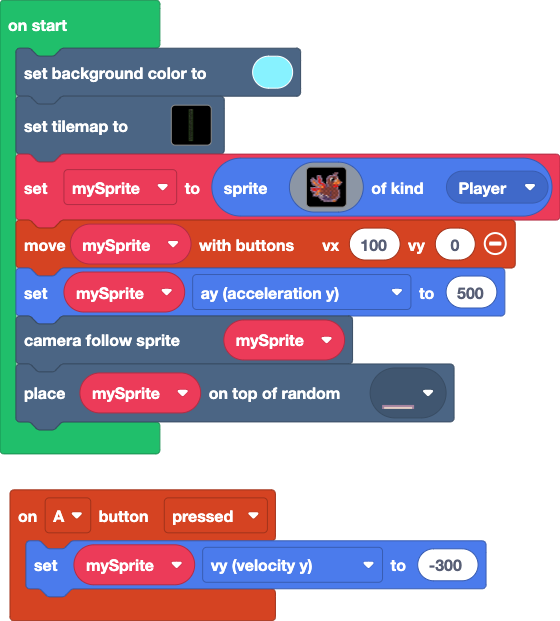
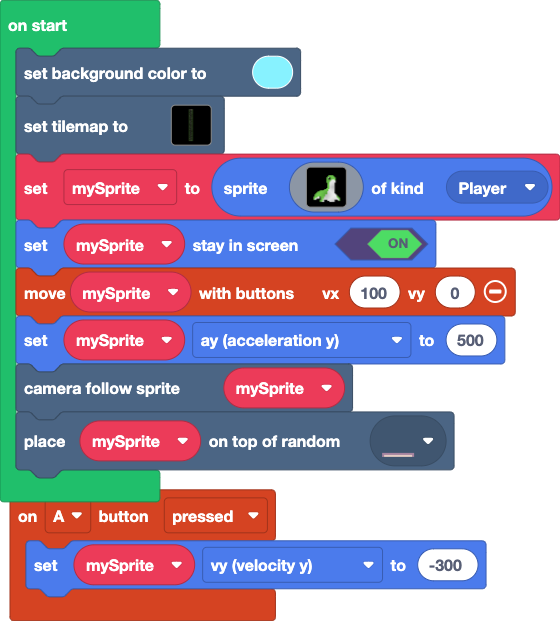
Update main.blocks, main.ts, images.g.jres, images.g.ts

Changed region(s): [[0.0, 0.2754, 0.9411, 0.8261]]

diff --git a/images.g.ts b/images.g.ts
@@ -3,29 +3,6 @@ namespace myImages {
 
     helpers._registerFactory("image", function(name: string) {
         switch(helpers.stringTrim(name)) {
-            case "image1":
-            case "turkey":return img`
-..............................
-..............................
-..............................
-.....bbb........beb...........
-.....b2b.......beb............
-.bb..b2bb...bbbbbb............
-bbbb.b22b..bbeeeeeb...........
-bb4bbb22b.bbed1feedf..........
-.b44bb22bbbee1ffed4c..........
-.bb44bb22bbeedfbdd44..........
-..bb44bbbbdeeeee44444.........
-....bb4dddbbeee44444..........
-bbbbbbbbdeeeeeee22............
-b222222eeeeeeeeeeeb...........
-bb222beeeeeebeeeeeb...........
-.bbbbbeeeeeebeeeeeb...........
-...bbcdceeeedeeeeeb...........
-..bb4cbdcdeebeeeeeb...........
-..bbbbcddccbdeeeeed...........
-.......cbdddddeee44...........
-`;
             case "image3":
             case "duck":return img`
 ..............................
@@ -59,38 +36,61 @@ bb222beeeeeebeeeeeb...........
 ..............................
 ..............................
 `;
+            case "image1":
+            case "turkey":return img`
+..............................
+..............................
+..............................
+.....bbb........beb...........
+.....b2b.......beb............
+.bb..b2bb...bbbbbb............
+bbbb.b22b..bbeeeeeb...........
+bb4bbb22b.bbed1feedf..........
+.b44bb22bbbee1ffed4c..........
+.bb44bb22bbeedfbdd44..........
+..bb44bbbbdeeeee44444.........
+....bb4dddbbeee44444..........
+bbbbbbbbdeeeeeee22............
+b222222eeeeeeeeeeeb...........
+bb222beeeeeebeeeeeb...........
+.bbbbbeeeeeebeeeeeb...........
+...bbcdceeeedeeeeeb...........
+..bb4cbdcdeebeeeeeb...........
+..bbbbcddccbdeeeeed...........
+.......cbdddddeee44...........
+`;
             case "image2":
             case "player":return img`
 ..............................
-.................fffffff......
-................ff77777ff.....
-...............ff7777777ff....
-...............f771f77777f....
-...............f77ff77777f....
-...............f777771117f....
-...............f777711111f....
-...............f777111111f....
-...............ff7711111ff....
-................f7711111f.....
-................f7711111f.....
-................f7711111f.....
-...............ff7711111f.....
-.............fff77711111f.....
-.........fffff7777111111f.....
-.......fff77777777111111f.....
-......ff7777777771111111f.....
-.....ff77777777771111111ff....
-....ff7777777777711111111ff...
-....f777777777711111111111ff..
-...ff7777777777111111111117ff.
-...f777711f77711111111111177ff
-...f771111f777111111111111177f
-...f711ffff771111111111111117f
-...fffff.f7771fff1111111fff17f
-.........f7711f.fff11111f.ffff
-.........ffffff...fffffff.....
 ..............................
 ..............................
+................fffffff.......
+...............ff77777ff......
+..............ff7777777ff.....
+..............f771f77777f.....
+..............f77ff77777f.....
+..............f777771117f.....
+..............f777711111f.....
+..............f777111111f.....
+..............ff7711111ff.....
+...............f7711111f......
+...............f7711111f......
+...............f7711111f......
+..............ff7711111f......
+............fff77711111f......
+........fffff7777111111f......
+......fff77777777111111f......
+.....ff7777777771111111f......
+....ff77777777771111111ff.....
+...ff7777777777711111111ff....
+...f777777777711111111111ff...
+..ff7777777777111111111117ff..
+..f777711f77711111111111177ff.
+..f771111f777111111111111177f.
+..f711ffff771111111111111117f.
+..fffff.f7771fff1111111fff17f.
+........f7711f.fff11111f.ffff.
+........ffffff...fffffff......
 `;
         }
         return null;

diff --git a/main.ts b/main.ts
@@ -8,6 +8,7 @@ let mySprite: Sprite = null
 scene.setBackgroundColor(9)
 tiles.setTilemap(tilemap`level1`)
 mySprite = sprites.create(assets.image`player`, SpriteKind.Player)
+mySprite.setStayInScreen(true)
 controller.moveSprite(mySprite, 100, 0)
 mySprite.ay = 500
 scene.cameraFollowSprite(mySprite)
